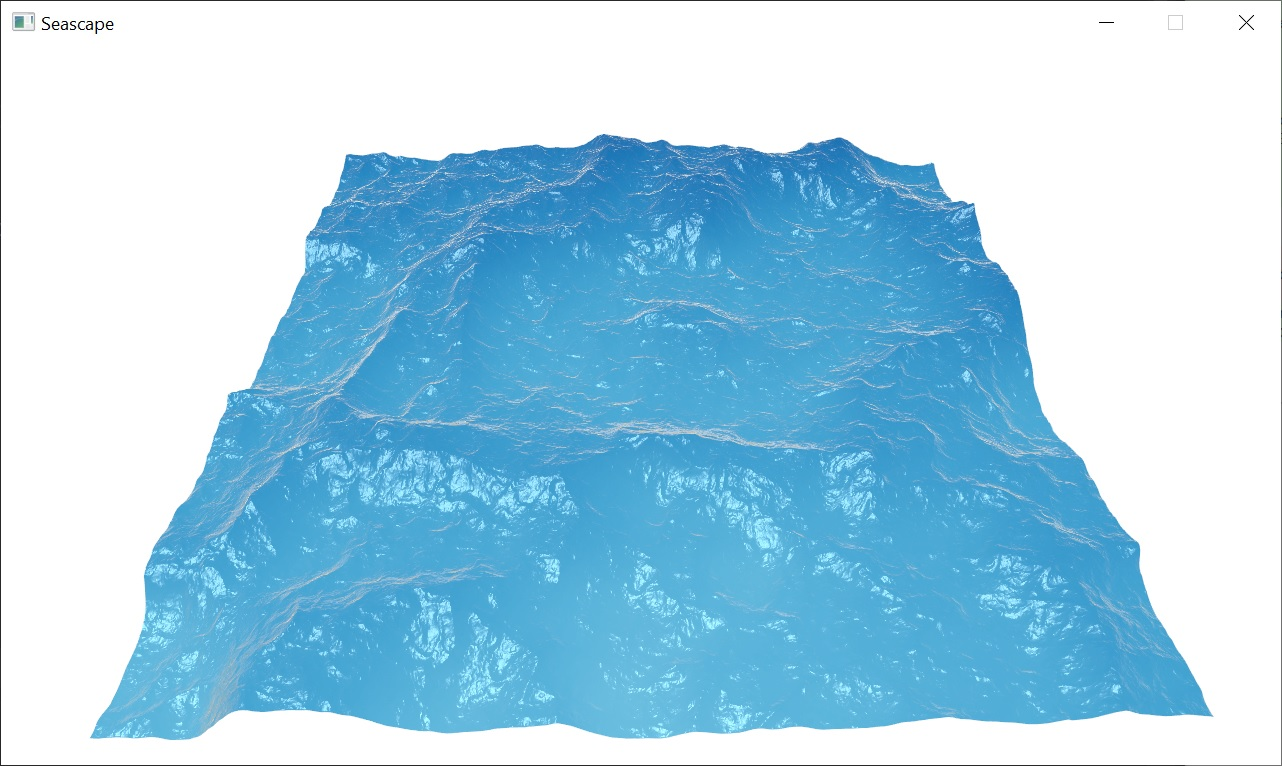
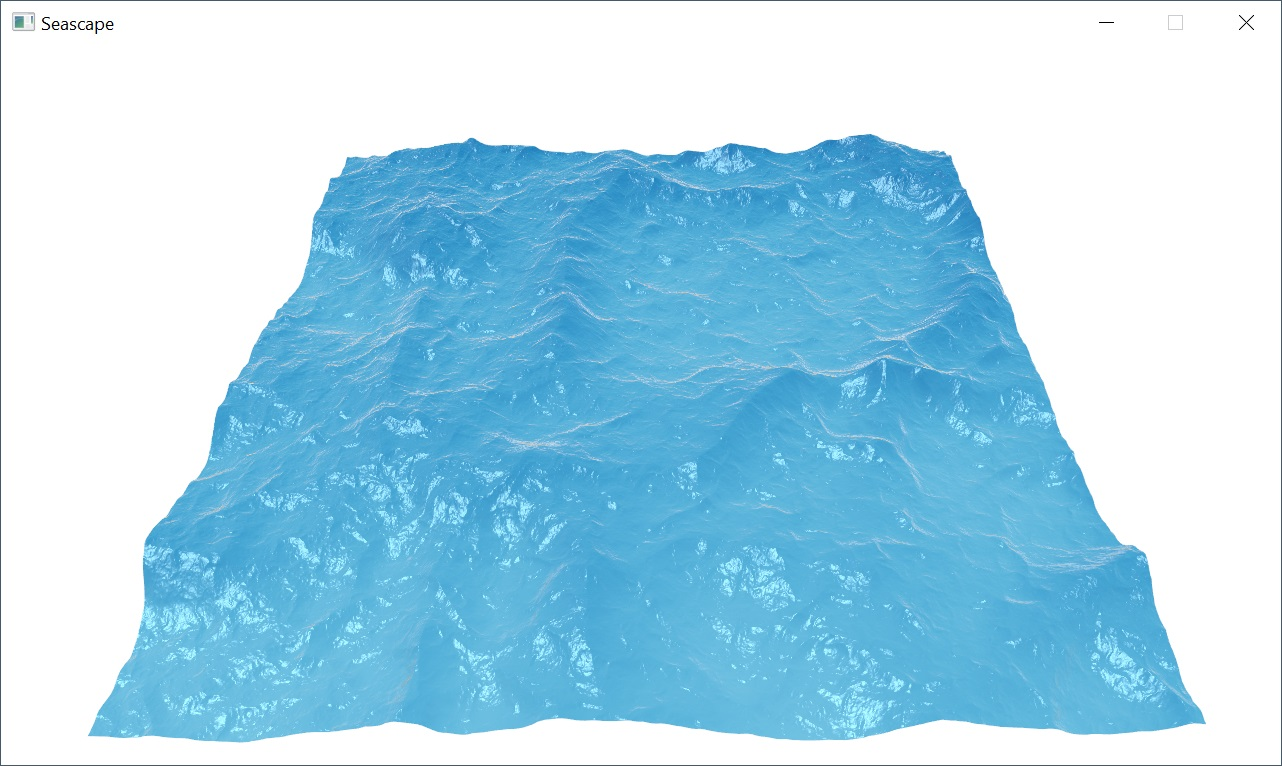
Calculate absorption path length using refracted view ray

Changed region(s): [[0.0, 0.0, 1.0, 1.0], [0.0624, 0.9008, 0.1248, 0.9608], [0.6864, 0.7807, 0.7176, 0.8107]]

diff --git a/framework/shaders/common/absorption.h b/framework/shaders/common/absorption.h
@@ -1,13 +1,10 @@
 // https://en.wikipedia.org/wiki/Beer%E2%80%93Lambert_law
 // https://www.pvlighthouse.com.au/cms/lectures/altermatt/optics/the-lambert-beer-law
+// https://www.rp-photonics.com/absorbance.html
 // https://www.rp-photonics.com/absorption_length.html
 
-vec3 absorb(vec3 a, float l)
+vec3 absorb(vec3 rgb, float c, float x)
 {
-    return exp(-a * l);
-}
-
-vec3 attenuationCoefficient(vec3 c, float d)
-{
-    return -log(c) * d;
+    vec3 a = -log(rgb) * c;
+    return exp(-a * x);
 }

diff --git a/framework/shaders/common/ray.h b/framework/shaders/common/ray.h
@@ -1,5 +1,5 @@
 // https://www.cs.princeton.edu/courses/archive/fall00/cs426/lectures/raycast/sld017.htm
-float rayPlane(vec4 p, vec3 ro, vec3 rd)
+float rayPlaneIntersection(vec4 p, vec3 o, vec3 d)
 {
-    return -(dot(ro, p.xyz) + p.w)/dot(rd, p.xyz);
+    return -(dot(o, p.xyz) + p.w)/dot(d, p.xyz);
 }
